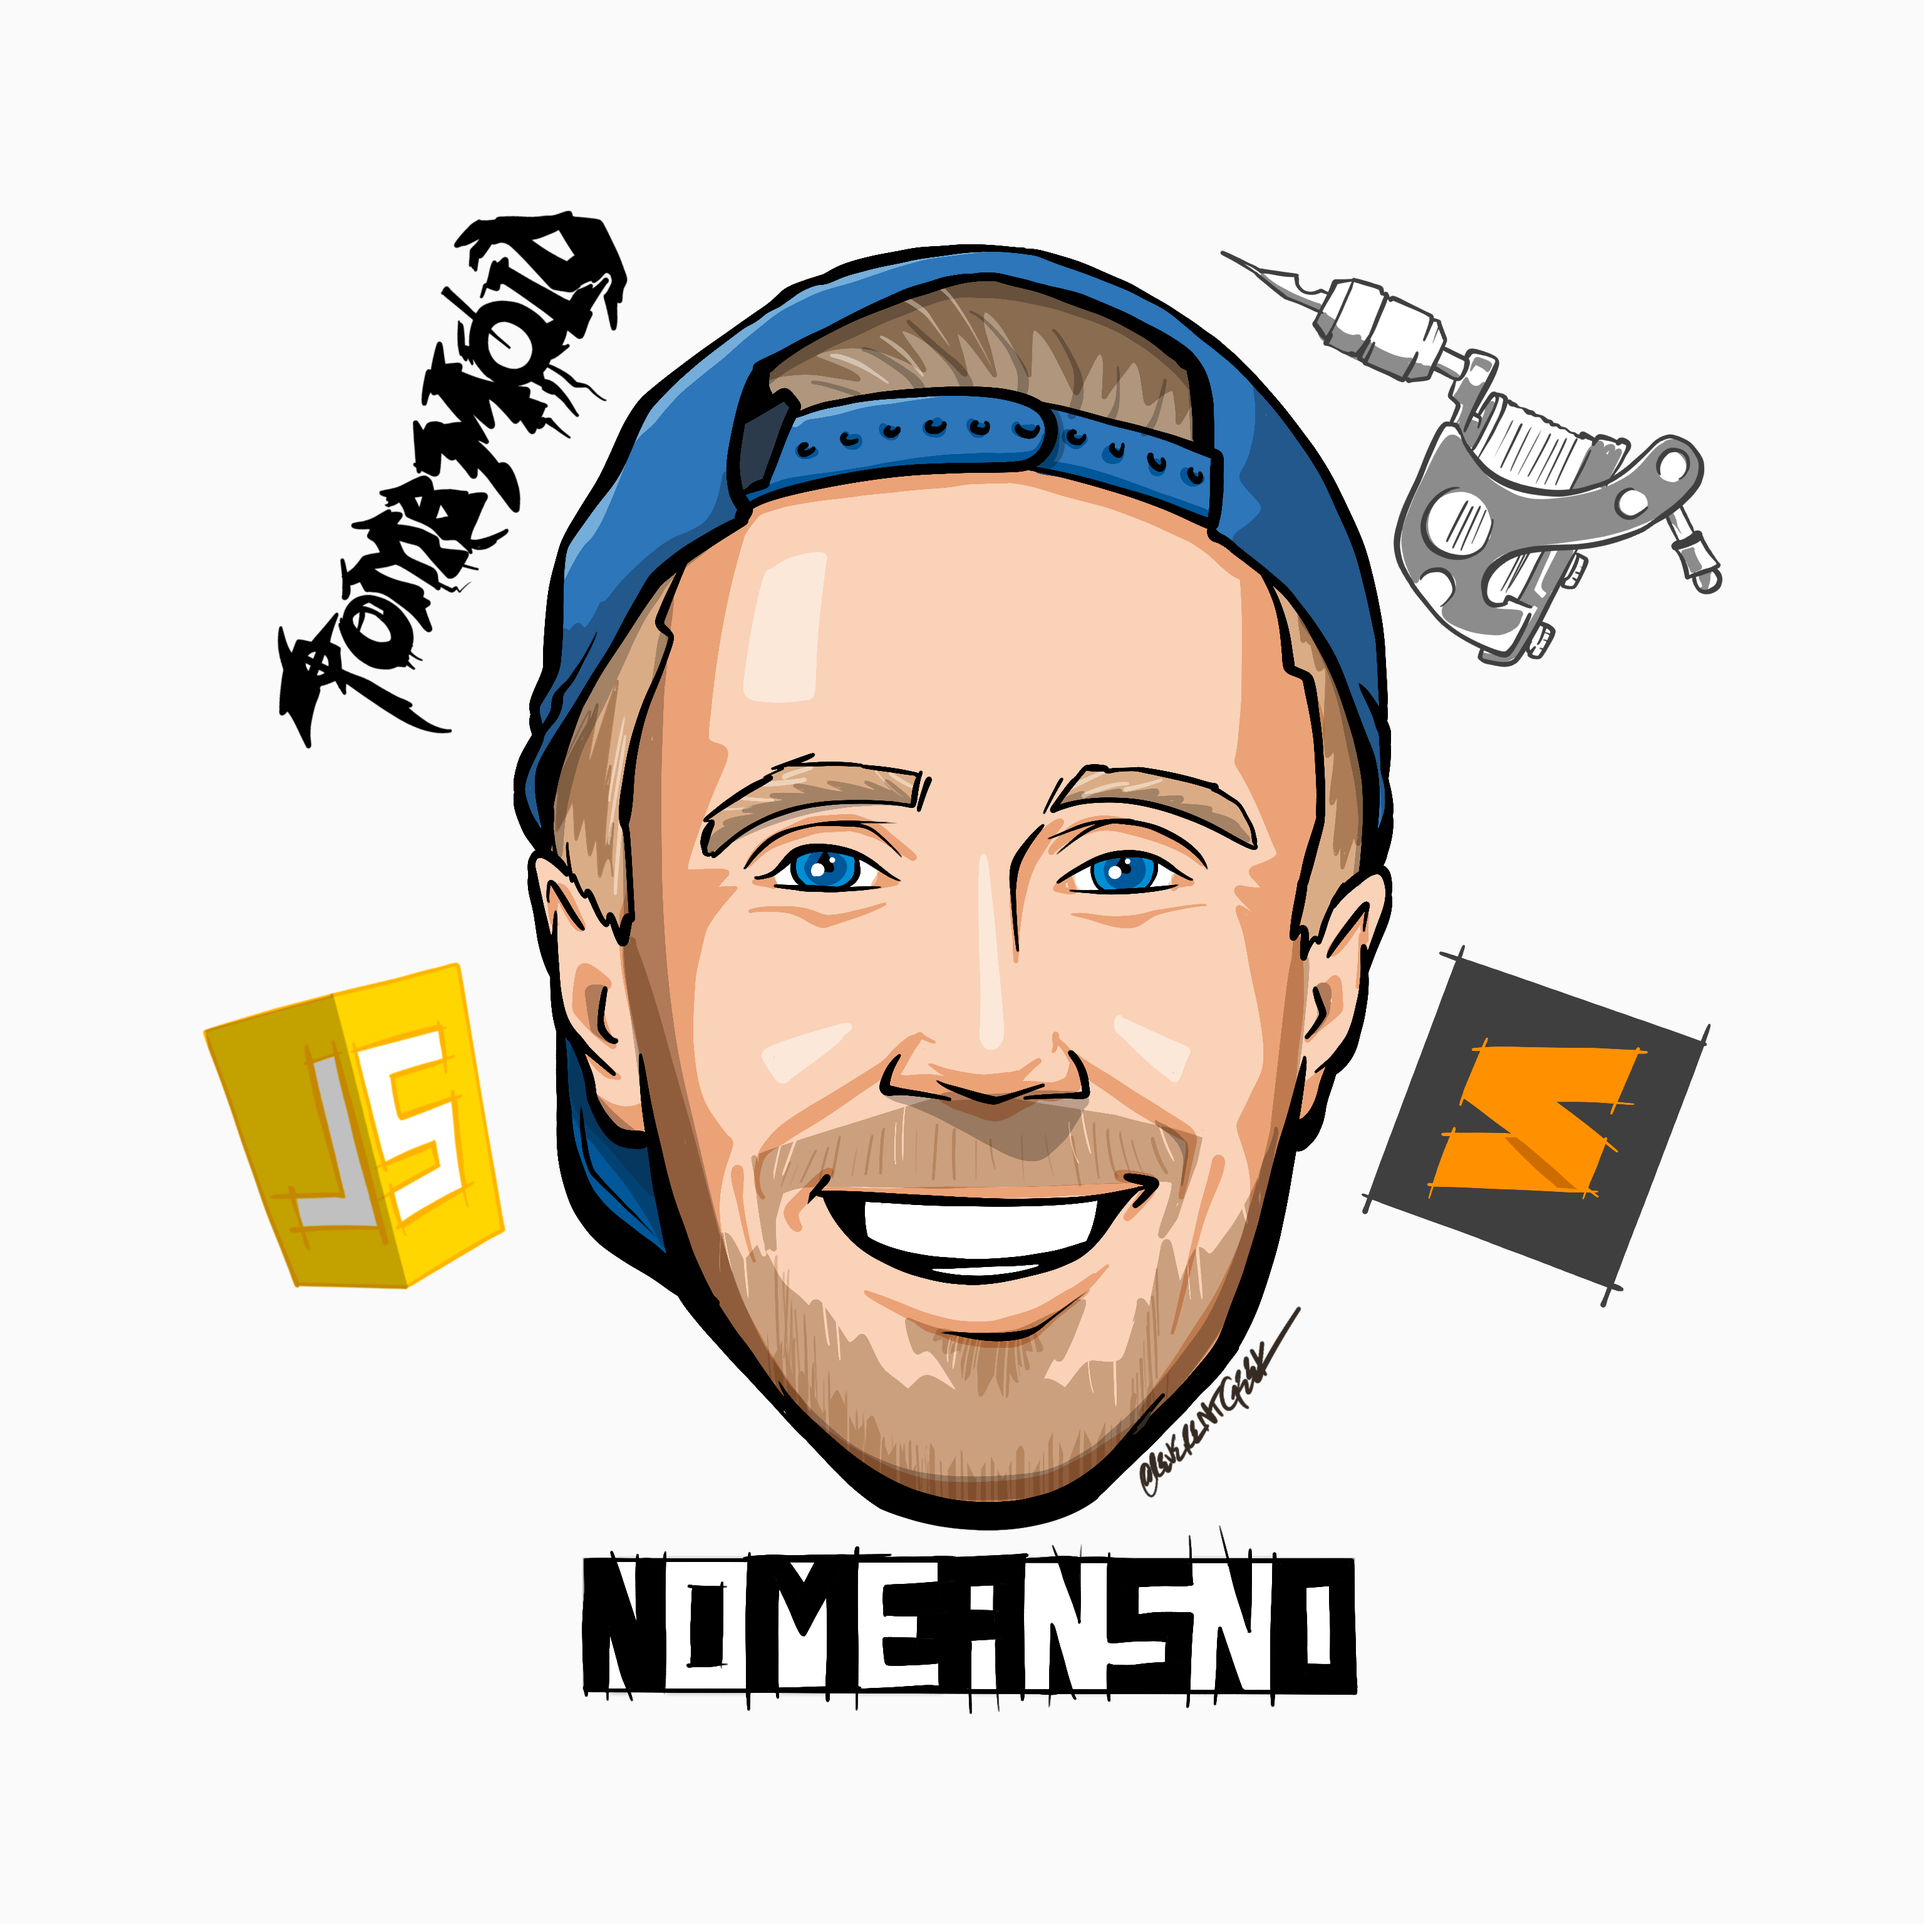
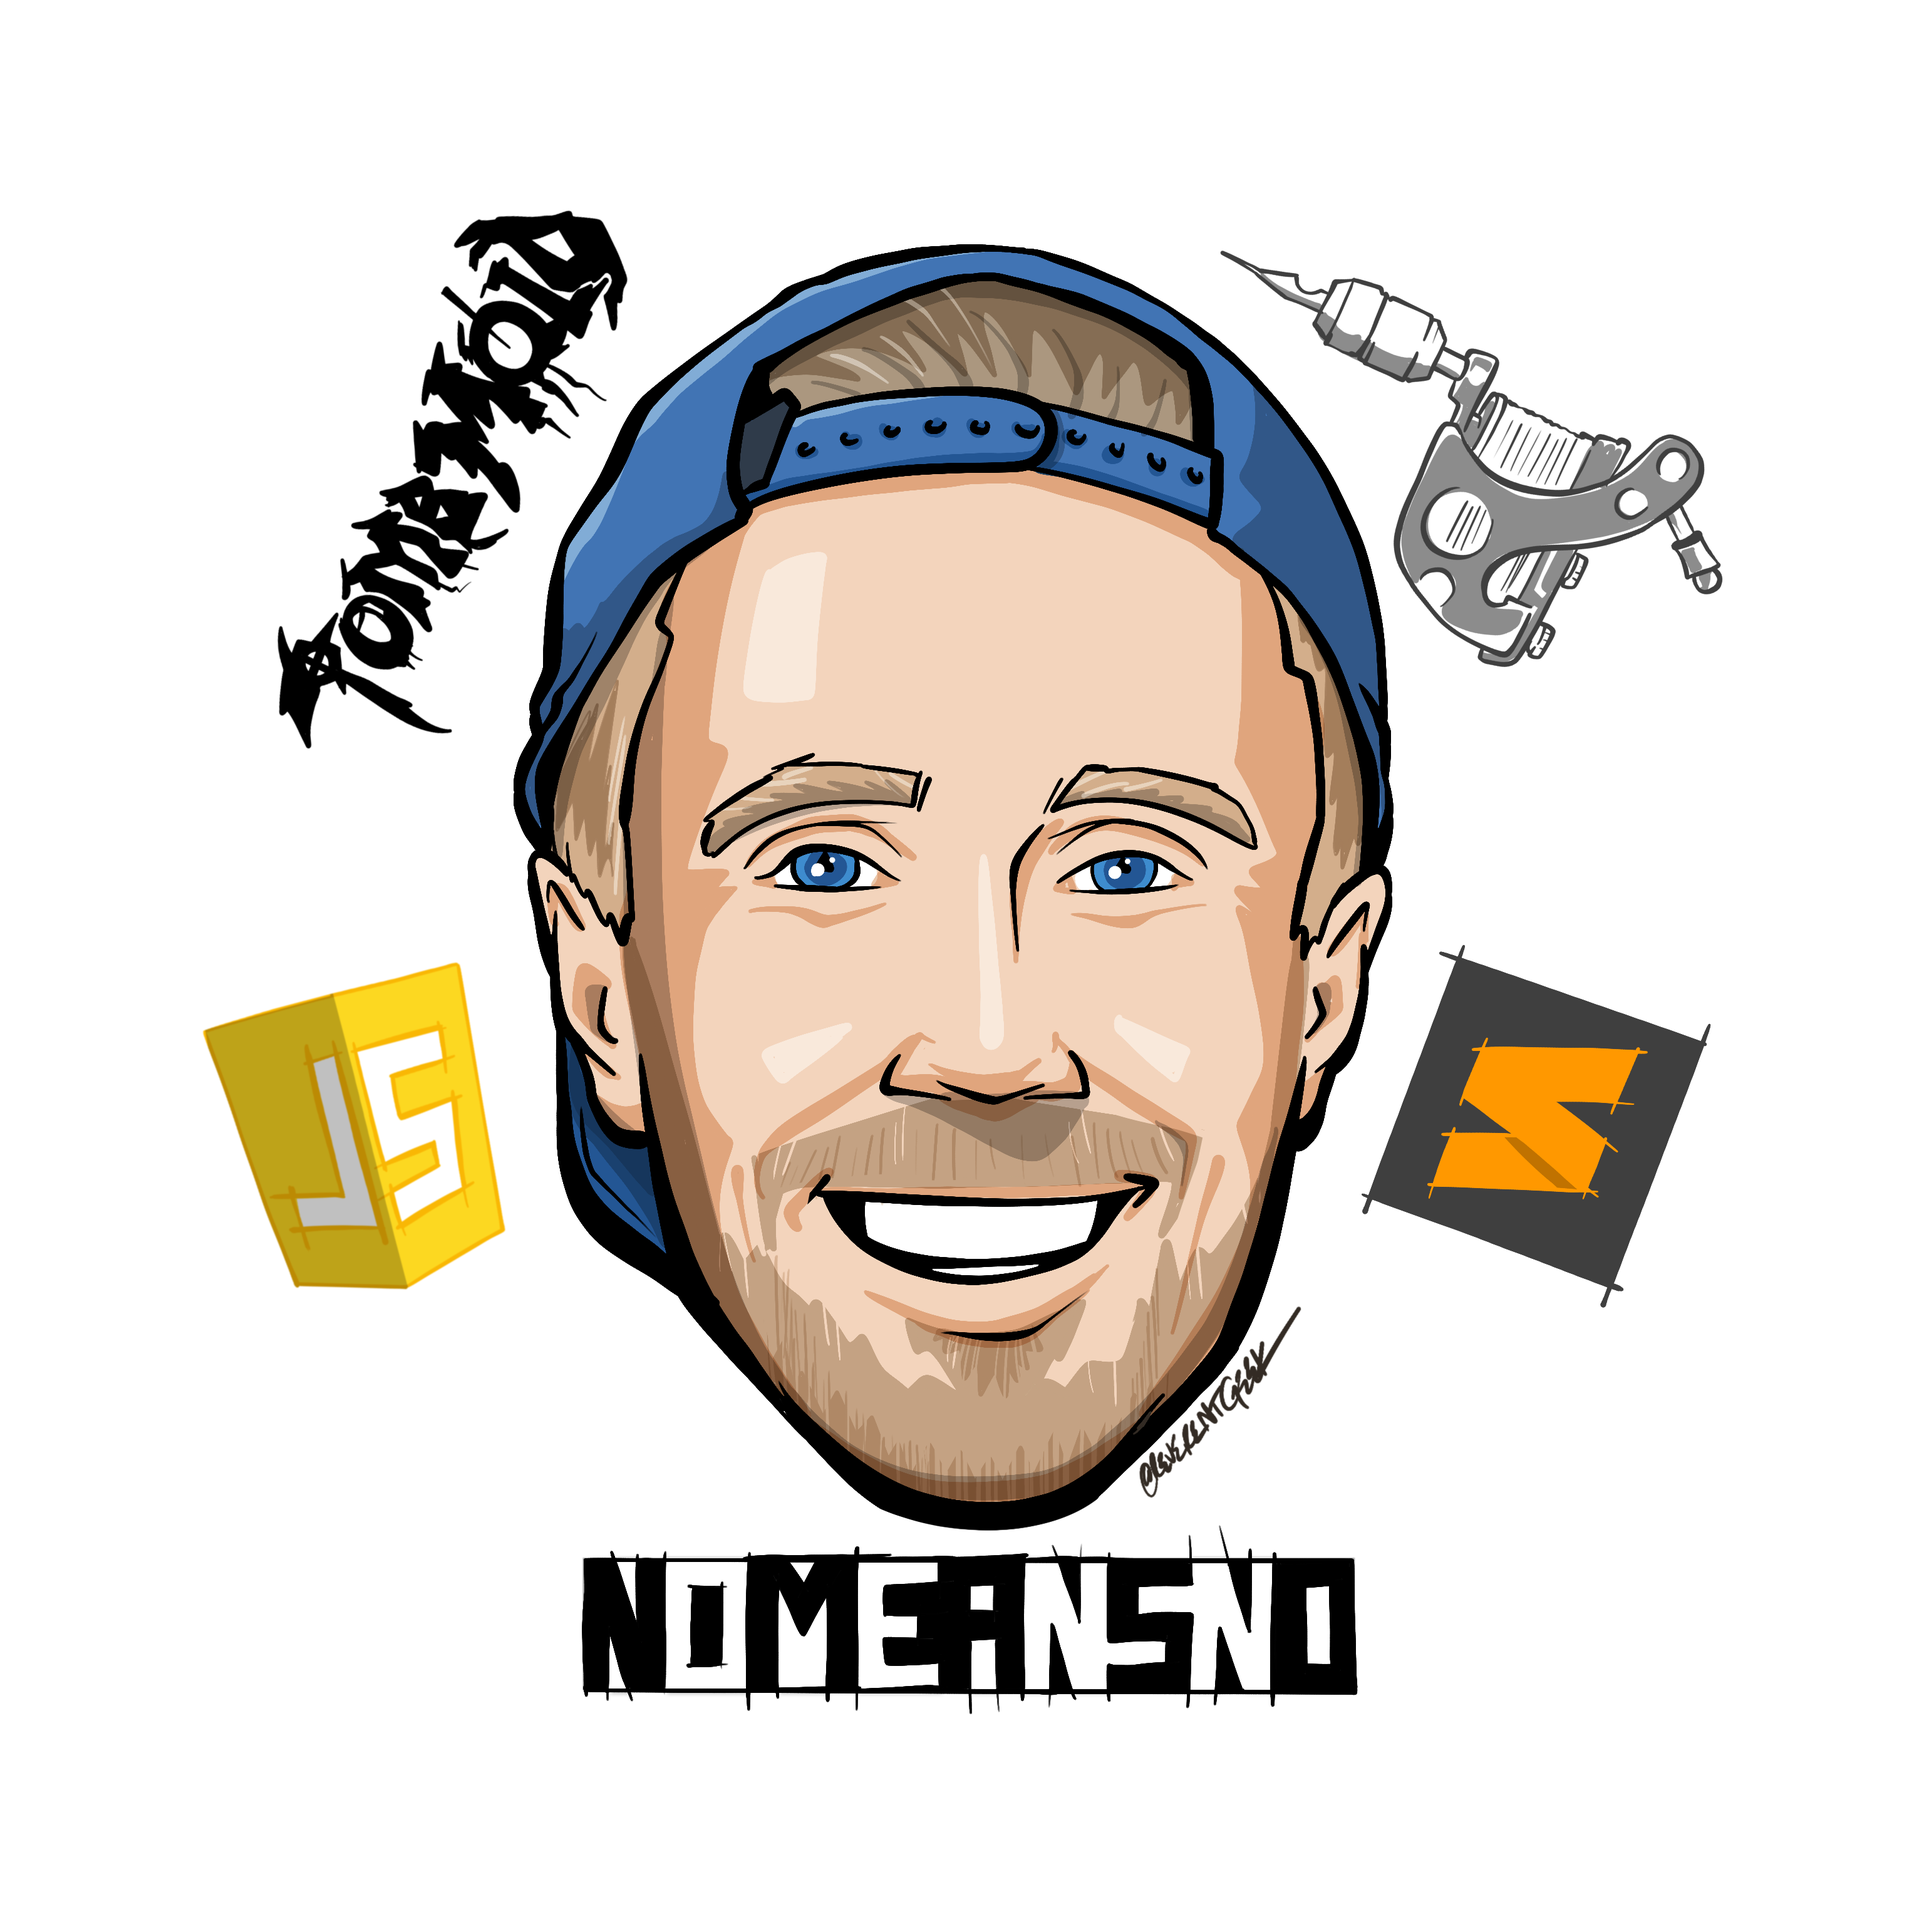
fix: contrast

diff --git a/src/assets/styles/defaults/vars.css b/src/assets/styles/defaults/vars.css
@@ -12,7 +12,6 @@
   --blue-900: #1e478a;
   --blue-950: #172e54;
 
-  --gray-lightest: #fafafa;
   --gray-50: #f6f7f8;
   --gray-100: #eaecef;
   --gray-200: #d9dee4;
@@ -24,7 +23,6 @@
   --gray-800: #5a6173;
   --gray-900: #4b515d;
   --gray-950: #30333b;
-  --gray-darkest: #191919;
 
   --white: #fff;
   --black: #000;
@@ -34,8 +32,8 @@
   --gray-dark: var(--gray-700);
 
   /* base theme */
-  --color-lightest: var(--gray-lightest);
-  --color-darkest: var(--gray-darkest);
+  --color-lightest: var(--white);
+  --color-darkest: var(--black);
   --text-color: var(--color-darkest);
   --background-color: var(--color-lightest);
   --text-color-inverted: var(--color-lightest);
